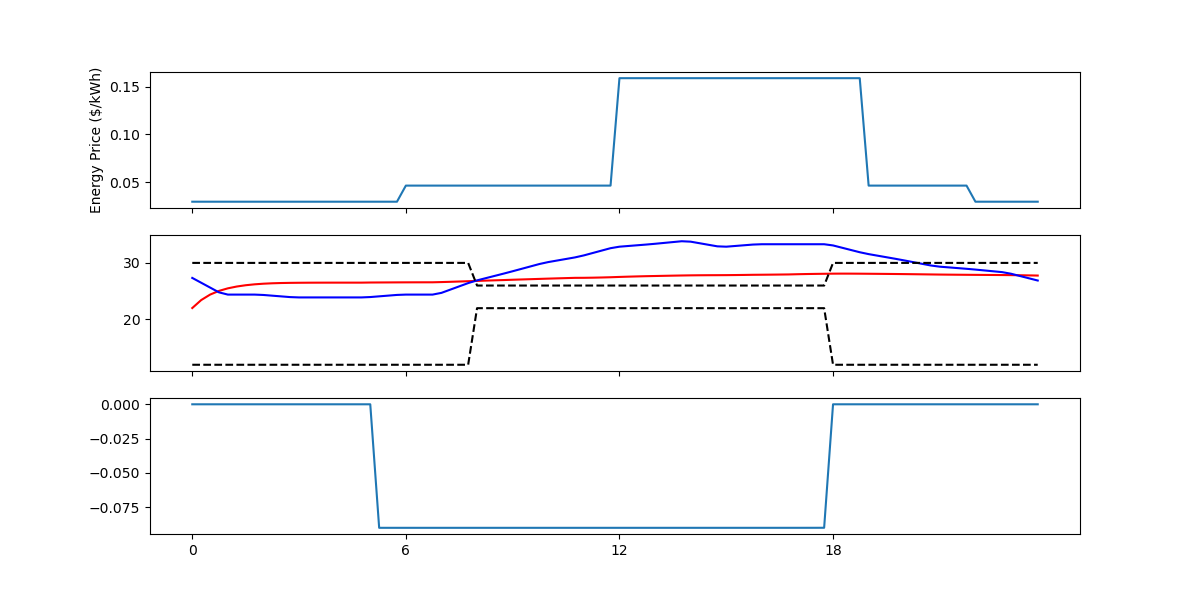
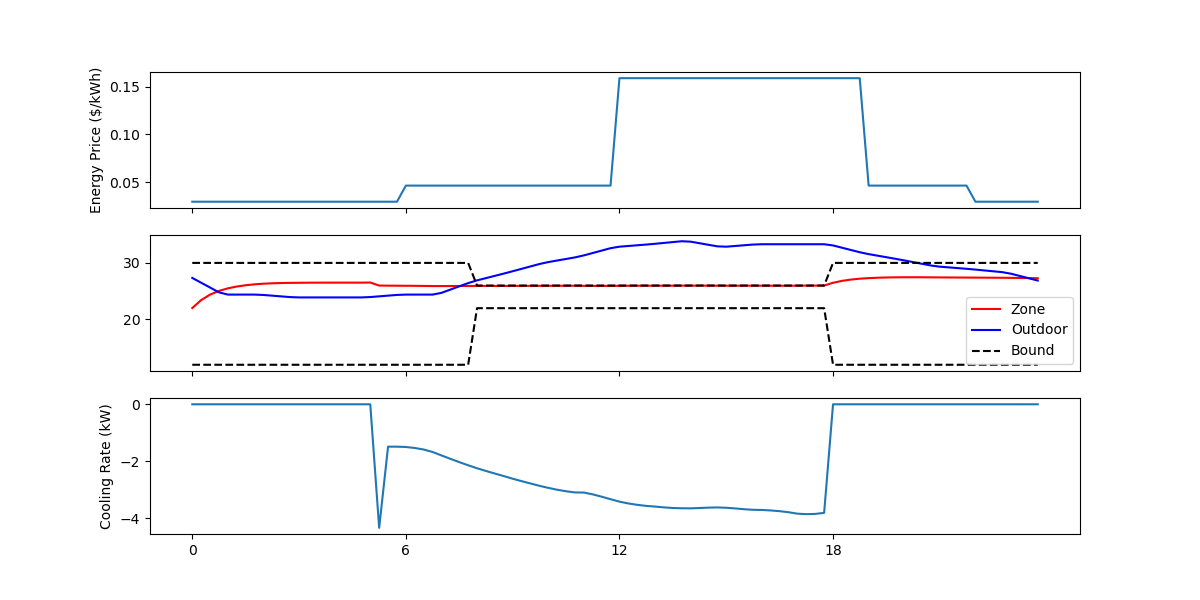
update optimizer for better optimization results

diff --git a/resources/tutorials/jax/optimal_control_mpc.py b/resources/tutorials/jax/optimal_control_mpc.py
@@ -88,8 +88,8 @@ class MPC():
         # call optimizer to minimize loss
         lr = 0.01
         tolerance = 1e-06
-        n_epochs = 10
-        optimizer = optax.adam(learning_rate = lr)
+        n_epochs = 1000
+        optimizer = optax.adamw(learning_rate = lr)
         u0 = jnp.zeros([self.PH, 1])
         params = {'u': u0}
         opt_state = optimizer.init(params)
@@ -365,9 +365,12 @@ if __name__ == '__main__':
     plt.plot(To_opt, 'b-', label="Outdoor")
     plt.plot(T_ub_dt.flatten(), 'k--', label="Bound")
     plt.plot(T_lb_dt.flatten(), 'k--')
+    plt.ylabel("Temperature (C)")
     plt.xticks(xticks, [])
+    plt.legend()
 
     plt.subplot(3,1,3)
     plt.plot(u_opt)
+    plt.ylabel("Cooling Rate (kW)")
     plt.xticks(xticks, xticklabels)
     plt.savefig('mpc.png')
